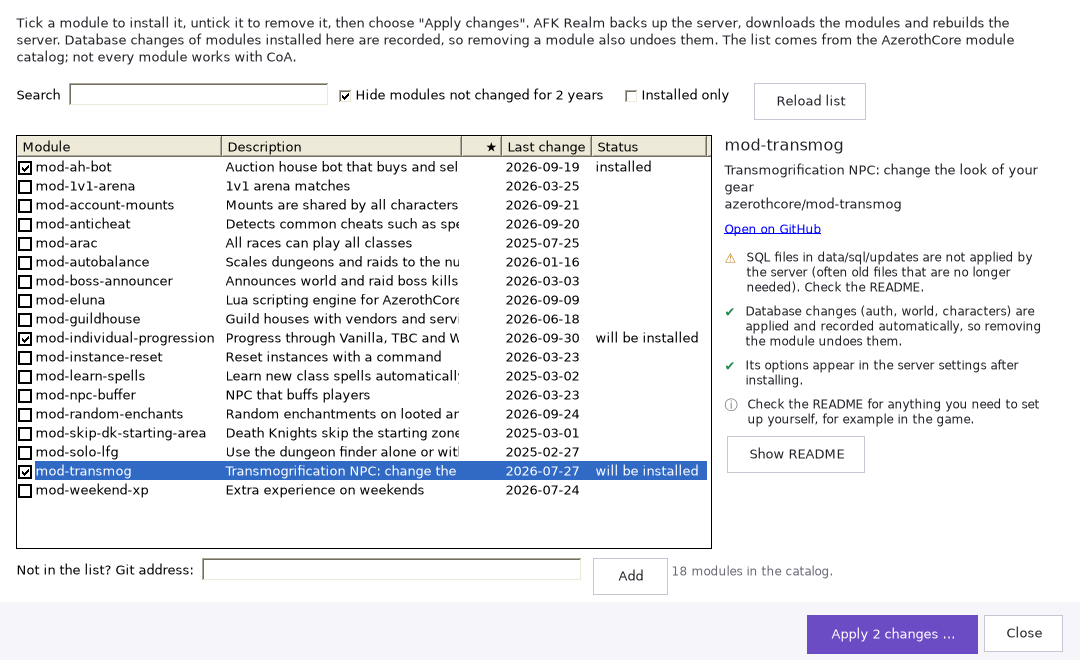
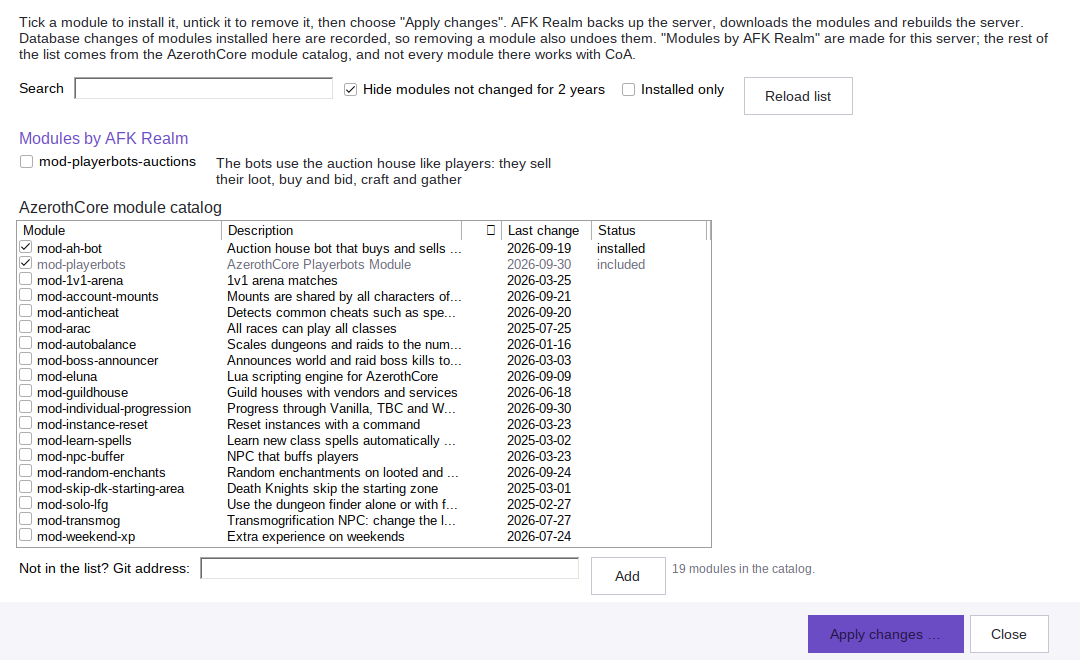
Modules by AFK Realm; modules can bring patches and settings (0.6.2-preview)

diff --git a/src/ModulesDialog.cs b/src/ModulesDialog.cs
@@ -33,6 +33,10 @@ namespace CoAInstaller
         readonly Button apply = Ui.Primary("Apply changes …");
         readonly TextBox customUrl = new TextBox { Font = Ui.Base, Width = 380, Margin = new Padding(0, 3, 8, 3) };
 
+        // The modules made for AFK Realm stand above the catalog, in a section of their own.
+        readonly FlowLayoutPanel ownPanel = new FlowLayoutPanel { FlowDirection = FlowDirection.TopDown, WrapContents = false, AutoSize = true, Dock = DockStyle.Top, Padding = new Padding(0, 0, 0, 2) };
+        readonly Dictionary<ModuleEntry, Label> ownStatus = new Dictionary<ModuleEntry, Label>();
+        ModuleEntry ownSelected;
         List<ModuleEntry> all = new List<ModuleEntry>();
         readonly HashSet<ModuleEntry> ticked = new HashSet<ModuleEntry>();
         bool filling;
@@ -46,7 +50,7 @@ namespace CoAInstaller
             var top = Ui.Column(); top.Dock = DockStyle.Top; top.AutoSize = true; top.Padding = new Padding(16, 12, 16, 4);
             top.Controls.Add(Ui.Para("Tick a module to install it, untick it to remove it, then choose \"Apply changes\". " + Product.Name +
                 " backs up the server, downloads the modules and rebuilds the server. Database changes of modules installed here are recorded, " +
-                "so removing a module also undoes them. The list comes from the AzerothCore module catalog; not every module works with CoA.", 1040));
+                "so removing a module also undoes them. \"Modules by " + Product.Name + "\" are made for this server; the rest of the list comes from the AzerothCore module catalog, and not every module there works with CoA.", 1040));
             var filter = Ui.Row();
             filter.Controls.Add(new Label { Text = "Search", AutoSize = true, Font = Ui.Base, Margin = new Padding(0, 6, 6, 0) });
             filter.Controls.Add(search); filter.Controls.Add(hideOld); filter.Controls.Add(onlyInstalled);
@@ -61,6 +65,7 @@ namespace CoAInstaller
             list.Columns.Add("Status", 115);
             var listPanel = new Panel { Dock = DockStyle.Fill, Padding = new Padding(16, 4, 8, 4) };
             listPanel.Controls.Add(list);
+            listPanel.Controls.Add(ownPanel);
 
             var details = Ui.Column(); details.Padding = new Padding(4, 4, 8, 4);
             details.Controls.Add(detailName); details.Controls.Add(detailText); details.Controls.Add(detailLink);
@@ -90,7 +95,7 @@ namespace CoAInstaller
             hideOld.CheckedChanged += (s, e) => Fill();
             onlyInstalled.CheckedChanged += (s, e) => Fill();
             list.ItemCheck += OnItemCheck;
-            list.SelectedIndexChanged += (s, e) => ShowDetails();
+            list.SelectedIndexChanged += (s, e) => { if (list.SelectedItems.Count > 0) SelectOwn(null); ShowDetails(); };
             detailLink.LinkClicked += (s, e) => { var m = Selected; if (m != null && m.Url.StartsWith("http")) Process.Start(m.Url); };
             readme.Click += (s, e) => ShowReadme();
             apply.Click += (s, e) => Apply();
@@ -98,7 +103,58 @@ namespace CoAInstaller
             Shown += (s, e) => LoadList(false);
         }
 
-        ModuleEntry Selected { get { return list.SelectedItems.Count == 1 ? list.SelectedItems[0].Tag as ModuleEntry : null; } }
+        ModuleEntry Selected { get { return ownSelected ?? (list.SelectedItems.Count == 1 ? list.SelectedItems[0].Tag as ModuleEntry : null); } }
+
+        /// <summary>Marks one of the modules by AFK Realm as the one the details are shown for (null: none).</summary>
+        void SelectOwn(ModuleEntry m)
+        {
+            ownSelected = m;
+            foreach (Control row in ownPanel.Controls) if (row.Tag is ModuleEntry) row.BackColor = row.Tag == m ? Ui.Panel : Color.White;
+        }
+
+        /// <summary>The section "Modules by AFK Realm": one row per module, with a tick like the list below.</summary>
+        void FillOwn()
+        {
+            ownPanel.SuspendLayout();
+            ownPanel.Controls.Clear(); ownStatus.Clear();
+            var mine = all.Where(m => m.Own).OrderBy(m => m.Name).ToList();
+            if (ownSelected != null && !mine.Contains(ownSelected)) ownSelected = null;
+            if (mine.Count > 0)
+            {
+                ownPanel.Controls.Add(new Label { Text = "Modules by " + Product.Name, AutoSize = true, Font = Ui.H2, ForeColor = Ui.Accent, Margin = new Padding(0, 0, 0, 2) });
+                foreach (var m in mine)
+                {
+                    var entry = m;
+                    var row = new FlowLayoutPanel { FlowDirection = FlowDirection.LeftToRight, WrapContents = false, AutoSize = true, Tag = entry, Margin = new Padding(0, 0, 0, 2), Padding = new Padding(2, 2, 6, 2),
+                        BackColor = entry == ownSelected ? Ui.Panel : Color.White };
+                    var tick = new CheckBox { Text = entry.Name, AutoSize = true, Font = Ui.Bold, Checked = ticked.Contains(entry), Enabled = entry.State != ModuleState.PartOfCoA, Margin = new Padding(2, 1, 10, 0) };
+                    var text = new Label { Text = entry.Description, AutoSize = true, Font = Ui.Base, ForeColor = Ui.Text, Margin = new Padding(0, 4, 10, 0), MaximumSize = new Size(360, 0) };
+                    var state = new Label { Text = StatusText(entry), AutoSize = true, Font = Ui.Small, ForeColor = Ui.Muted, Margin = new Padding(0, 5, 0, 0) };
+                    ownStatus[entry] = state;
+                    tick.CheckedChanged += (s, e) =>
+                    {
+                        if (filling) return;
+                        if (tick.Checked) ticked.Add(entry); else ticked.Remove(entry);
+                        state.Text = StatusText(entry);
+                        Pick(entry);
+                        UpdateApply();
+                    };
+                    EventHandler pick = (s, e) => Pick(entry);
+                    row.Click += pick; text.Click += pick; state.Click += pick;
+                    row.Controls.Add(tick); row.Controls.Add(text); row.Controls.Add(state);
+                    ownPanel.Controls.Add(row);
+                }
+                ownPanel.Controls.Add(new Label { Text = "AzerothCore module catalog", AutoSize = true, Font = Ui.H2, ForeColor = Ui.Text, Margin = new Padding(0, 8, 0, 2) });
+            }
+            ownPanel.ResumeLayout();
+        }
+
+        void Pick(ModuleEntry m)
+        {
+            list.SelectedItems.Clear();
+            SelectOwn(m);
+            ShowDetails();
+        }
 
         void LoadList(bool refresh)
         {
@@ -129,10 +185,11 @@ namespace CoAInstaller
         void Fill()
         {
             filling = true;
+            FillOwn();
             list.BeginUpdate();
             list.Items.Clear();
             string q = search.Text.Trim();
-            var shown = all.Where(m =>
+            var shown = all.Where(m => !m.Own &&
                     (!hideOld.Checked || m.Installed || ticked.Contains(m) || m.Pushed == DateTime.MinValue || m.Pushed > DateTime.UtcNow.AddYears(-2)) &&
                     (!onlyInstalled.Checked || m.Installed) &&
                     (q.Length == 0 || m.Name.IndexOf(q, StringComparison.OrdinalIgnoreCase) >= 0 || m.Description.IndexOf(q, StringComparison.OrdinalIgnoreCase) >= 0 ||
@@ -214,6 +271,7 @@ namespace CoAInstaller
                 return;
             }
             if (m.State == ModuleState.PartOfCoA) { AddCheck(0, "This module is already part of the CoA core."); return; }
+            if (m.Own) AddCheck(0, "Made for " + Product.Name + " and the CoA server it builds.");
             if (m.State == ModuleState.Managed)
             {
                 AddCheck(0, "Installed through " + Product.Name + (m.InstalledOn.Length > 0 ? " on " + m.InstalledOn : "") + ". Removing it undoes its recorded database changes.");
@@ -236,7 +294,8 @@ namespace CoAInstaller
                     {
                         if (Selected != m) return;
                         checks.Controls.Clear();
-                        if (error != null) { AddCheck(1, "The module could not be checked: " + error); return; }
+                        if (m.Own) AddCheck(0, "Made for " + Product.Name + " and the CoA server it builds.");
+                        if (error != null) { AddCheck(m.Own ? -1 : 1, "The module could not be checked" + (m.Own ? " online right now" : "") + ": " + error); return; }
                         foreach (var c in a.Checks.OrderByDescending(c => c.Key)) AddCheck(c.Key, c.Value);
                         AddCheck(-1, "Check the README for anything you need to set up yourself, for example in the game.");
                         readme.Visible = a.ReadmeText.Length > 0;
@@ -286,6 +345,7 @@ namespace CoAInstaller
             customUrl.Text = "";
             search.Text = known.Name;
             Fill();
+            if (known.Own) { if (!known.Installed && known.State != ModuleState.PartOfCoA) ticked.Add(known); search.Text = ""; Fill(); Pick(known); return; }
             foreach (ListViewItem it in list.Items) if (it.Tag == known) { it.Selected = true; if (!known.Installed) it.Checked = true; it.EnsureVisible(); }
         }
 

diff --git a/src/ModuleCatalog.cs b/src/ModuleCatalog.cs
@@ -19,6 +19,8 @@ namespace CoAInstaller
         public int Stars;
         public DateTime Pushed;
         public bool Archived, InCatalog;
+        /// <summary>Made for AFK Realm: listed first, in a section of its own.</summary>
+        public bool Own;
         public ModuleState State;
         public string Status = "", InstalledOn = "";                      // from modules.txt
         public string[] CreatedTables = new string[0], ManualTables = new string[0];
@@ -45,6 +47,19 @@ namespace CoAInstaller
     static class ModuleCatalog
     {
         const string Topic = "azerothcore-module";
+        /// <summary>A module can bring changes for the core or Playerbots; this file in its folder names them (see the engine).</summary>
+        public const string ManifestName = "afk-realm.json";
+
+        /// <summary>Modules made for AFK Realm. They are always in the list, whatever the catalog says.</summary>
+        static ModuleEntry[] OwnModules()
+        {
+            return new[]
+            {
+                new ModuleEntry { Name = "mod-playerbots-auctions", FullName = "aspollon/mod-playerbots-auctions", Branch = "main", Own = true,
+                    Url = "https://github.com/aspollon/mod-playerbots-auctions", CloneUrl = "https://github.com/aspollon/mod-playerbots-auctions.git",
+                    Description = "The bots use the auction house like players: they sell their loot, buy and bid, craft and gather" },
+            };
+        }
         static readonly Dictionary<string, ModuleAnalysis> analyses = new Dictionary<string, ModuleAnalysis>(StringComparer.OrdinalIgnoreCase);
 
         static string CacheFile(Install inst) { return Path.Combine(inst.Root, "Dependencies", "Cache", "module-catalog.txt"); }
@@ -187,6 +202,12 @@ namespace CoAInstaller
         public static List<ModuleEntry> Merge(Install inst, List<ModuleEntry> catalog)
         {
             var result = new List<ModuleEntry>(catalog ?? new List<ModuleEntry>());
+            foreach (var own in OwnModules())
+            {
+                var listed = result.FirstOrDefault(e => e.FullName.Equals(own.FullName, StringComparison.OrdinalIgnoreCase));
+                if (listed != null) { listed.Own = true; if (listed.Description.Length == 0) listed.Description = own.Description; }
+                else result.Insert(0, own);
+            }
             var managed = new Dictionary<string, string[]>(StringComparer.OrdinalIgnoreCase);
             string listFile = Path.Combine(inst.Root, "Dependencies", "modules.txt");
             if (File.Exists(listFile))
@@ -204,8 +225,11 @@ namespace CoAInstaller
                 string folder = Path.Combine(dir, name);
                 string[] info; managed.TryGetValue(name, out info);
                 bool hasGit = Directory.Exists(Path.Combine(folder, ".git"));
-                var state = info != null ? ModuleState.Managed : hasGit ? ModuleState.ByHand : ModuleState.PartOfCoA;
+                // A folder without its own Git history is normally a module that ships with the core - unless it is one of ours, copied in by hand.
+                bool own = OwnModules().Any(o => o.Name.Equals(name, StringComparison.OrdinalIgnoreCase));
+                var state = info != null ? ModuleState.Managed : hasGit || own ? ModuleState.ByHand : ModuleState.PartOfCoA;
                 string url = info != null ? info[1] : OriginUrl(folder);
+                if (url.Length == 0 && own) url = OwnModules().First(o => o.Name.Equals(name, StringComparison.OrdinalIgnoreCase)).CloneUrl;
                 string full = GitHubName(url);
                 // Prefer the catalog entry of the same repository, else one with the same name.
                 var entry = result.FirstOrDefault(e => full != null && e.FullName.Equals(full, StringComparison.OrdinalIgnoreCase))
@@ -304,7 +328,11 @@ namespace CoAInstaller
 
             if (!code && dbs.Count == 0)
                 a.Add(2, "This does not look like a server module (no source code and no SQL files).");
-            if (patches.Count > 0 || Regex.IsMatch(readme, @"git\s+apply|patch\s+-p\d|apply\s+(the\s+)?(core\s+)?patch|core\s+patch", RegexOptions.IgnoreCase))
+            bool manifest = paths.Any(p => p.Equals(ManifestName, StringComparison.OrdinalIgnoreCase));
+            if (manifest && patches.Count > 0)
+                a.Add(0, "It brings " + patches.Count + (patches.Count == 1 ? " change" : " changes") + " for the CoA core or Playerbots. " + Product.Name +
+                    " applies them with every build and leaves one out when it no longer fits or is no longer needed.");
+            else if (patches.Count > 0 || Regex.IsMatch(readme, @"git\s+apply|patch\s+-p\d|apply\s+(the\s+)?(core\s+)?patch|core\s+patch", RegexOptions.IgnoreCase))
                 a.Add(2, "It needs changes to the server core (a patch). " + Product.Name + " cannot apply those, so the module will most likely not work or not compile.");
             if (Regex.IsMatch(readme, @"\.mpq\b|client[\s-]+(side\s+)?patch|patch-[a-z0-9]\.mpq|client\s+dbc|dbc\s+files?\s+(to|for|in)\s+(the\s+)?client", RegexOptions.IgnoreCase))
                 a.Add(1, "The README mentions files for the game client (MPQ/DBC patches). Every player may need them; see the README.");

diff --git a/src/Core.cs b/src/Core.cs
@@ -23,7 +23,7 @@ namespace CoAInstaller
         public const string Name = "AFK Realm";                   // window titles, dialogs
         public const string ShortName = "AFK Realm";              // desktop shortcut, firewall rules
         public const string FileStem = "AFK-Realm";                // exe name, settings folder
-        public const string Version = "0.6.1-preview";            // pre-release until testers confirm it works
+        public const string Version = "0.6.2-preview";            // pre-release until testers confirm it works
         public const string Tagline = "build, run and tweak your own server the lazy way";
         public const string BuildsFor = "Conquest of AzerothCore";
         public const string WindowTitle = Name + " (preview)";

diff --git a/src/ManagerPage.cs b/src/ManagerPage.cs
@@ -131,7 +131,7 @@ namespace CoAInstaller
 
             // --- modules
             Body.Controls.Add(Ui.Heading("Modules"));
-            Body.Controls.Add(Ui.Hint("Add or remove AzerothCore modules from the module catalog. The server is backed up and rebuilt; " +
+            Body.Controls.Add(Ui.Hint("Add or remove modules: those made for this server (for example bots that use the auction house) and the AzerothCore module catalog. The server is backed up and rebuilt; " +
                 "database changes of modules installed here are recorded, so removing a module undoes them."));
             var modulesBtn = Ui.Secondary("Manage modules …");
             modulesBtn.Click += (s, e) => ManageModules();

diff --git a/README.md b/README.md
@@ -35,7 +35,7 @@ Pre-built repacks go stale quickly. Building from source keeps you on the latest
 - **Accounts**: create accounts with GM levels, list all player accounts (bot accounts are filtered out) with their characters, delete accounts, set new passwords and change access levels
 - **Account transfer**: export an account with all its characters, items, mail and pets to an `.afkaccount` file and import it on another server – ids are renumbered, taken names are renamed at the next login
 - **Game master tools**: a line to the running server (its SOAP service, switched on for this PC only) with a quest helper – find quests by NPC name, quest title or id, or list the open quests around a character, then give, complete, reward or remove them with one click – plus unstuck, revive, level, rename, gold and mail for a character, announcements, and a console for every other GM command
-- **Modules**: browse the AzerothCore module catalog, tick modules to install them and untick them to remove them. Before installing, each module is checked (database changes, settings, core patches, client files, age) and its README is one click away. The server is backed up and rebuilt; if a module does not compile, it is taken out again and the server stays as it was. The database changes of every module installed this way are recorded, so removing it undoes them
+- **Modules**: modules made for this server at the top ("Modules by AFK Realm", first of them: the bots use the auction house like players), then the AzerothCore module catalog: browse it, tick modules to install them and untick them to remove them. Before installing, each module is checked (database changes, settings, core patches, client files, age) and its README is one click away. The server is backed up and rebuilt; if a module does not compile, it is taken out again and the server stays as it was. The database changes of every module installed this way are recorded, so removing it undoes them
 - **Bot reset**: one click deletes all random bots with their characters, guilds and arena teams (your own characters are kept); new bots are created at the next start
 - **Map data**: extracts maps, vmaps, mmaps and the CoA client DBC tables from your game client with one click
 - **Server name**: choose the name shown in the realm list during installation and change it later with one click
@@ -103,6 +103,19 @@ When the server is started through AFK Realm, the worldserver's SOAP service is 
 ### Modules and their database changes
 
 Modules installed through *Manage modules* are cloned into `Dependencies\Source\modules`. Their SQL files (`data/sql/db-world`, `db-characters`, `db-auth`) are not left to the core's updater: AFK Realm applies them itself, copies the tables they name beforehand and stores the differences (added, changed and removed rows, new and deleted tables) in the database `afk_modules`, which is part of every backup. The files are then entered into the core's `updates` tables with the core's own hash, so they are never applied twice. Removing the module puts every recorded row and table back, but only rows that still look exactly as the module left them; rows changed later (for example by a server update) are kept and listed in the log. Changes that cannot be recorded (a module that alters the structure of an existing table, or changes tables in other ways) are reported; a backup from before the module restores them. Data players created through a module (items in bags, learned spells) is not tracked.
+
+### What a module can bring along
+
+A module can carry a file `afk-realm.json` in its folder. It names patches for the CoA core or for Playerbots – the two source trees AFK Realm downloads itself and resets with every update – and settings the module needs in other config files:
+
+```json
+{
+  "patches":  [ { "name": "Bots keep their bags", "target": "mod-playerbots", "file": "patches/mod-playerbots/keep-bags-on-refresh.patch", "why": "..." } ],
+  "settings": [ { "file": "playerbots.conf", "key": "AiPlayerbot.LootDistance", "value": "40.0", "why": "..." } ]
+}
+```
+
+Before every build both trees are reset and the patches of all installed modules are applied with `git apply`. A patch that no longer fits is left out and reported, one whose change is already in the source is skipped silently; the build goes on either way. Settings are written once, when the module is new, together with the value that was there before (`Dependencies\module-settings.txt`); when the module is removed, a value that is still the module's goes back. `target` is `core` or `mod-playerbots`, nothing else.
 
 Folder layout after installation:
 

diff --git a/docs/MANUAL.md b/docs/MANUAL.md
@@ -205,11 +205,14 @@ The arrow keys bring back earlier commands. Commands that need you to stand in t
 
 ![Modules](screenshots/12-modules.png)
 
-- The list is the AzerothCore module catalog. Installed modules are ticked.
+- At the top, under **Modules by AFK Realm**, are modules made for this server. They fit CoA and bring everything they need.
+- Below that, the list is the AzerothCore module catalog. Installed modules are ticked.
 - **Tick** a module to install it, **untick** it to remove it, then click **Apply changes**.
 - Click a module to see what AFK Realm found out about it: whether it brings database changes and settings, whether it needs a change to the server core (not supported), files for the game client or the Eluna module, and when it was last changed. **Show README** opens its description.
 - A module that is not in the list can be added by its Git address at the bottom.
 - Playerbots and the modules that come with CoA are shown as *included* / *part of CoA* and cannot be changed here.
+
+**Modules by AFK Realm.** *mod-playerbots-auctions* lets the bots use the auction house like players: they travel to a city when they have enough to sell, put their loot up at prices of their own, buy and bid on what they need, gather and craft with their professions and sell junk to vendors. It needs two small changes to Playerbots and one setting; AFK Realm makes them when it builds the server and takes them back when you remove the module. A module's file `afk-realm.json` lists what it brings; a change that no longer fits a newer Playerbots version is left out and reported, and the server is built without it. The module's own options are in the [server settings](#5-server-settings) under `mod_playerbots_auctions.conf`.
 
 **What happens on Apply:** the server is stopped and backed up, the modules are downloaded, the server is rebuilt and the modules' database changes are applied.
 

diff --git a/RELEASE_NOTES.md b/RELEASE_NOTES.md
@@ -1,6 +1,12 @@
-# AFK Realm 0.6.1 – preview
+# AFK Realm 0.6.2 – preview
 
 Build, run and tweak your own Conquest of Azeroth server (AzerothCore fork with Playerbots) on Windows 10/11.
+
+## New in 0.6.2
+
+- **Modules by AFK Realm**: the module manager now starts with a section of modules made for this server. The first one is **mod-playerbots-auctions**: the bots use the auction house like players. They travel to a city when they have enough to sell, price their loot, buy and bid on what they need, gather and craft with their professions, and sell their junk to vendors. Tick it, apply, done.
+- **Modules can bring what they need.** Until now a module that needed a change in the core or in Playerbots could not be installed through AFK Realm. A module can now carry those changes itself: AFK Realm applies them to the freshly downloaded source with every build, leaves a change out when it no longer fits or when the original has it already, and takes everything back when the module is removed. The auction module uses this for two small changes to Playerbots (bots keep what is in their bags; no crash on level-scaled loot) and one setting.
+- This is new and was tested on one server only. As always: AFK Realm backs up the server before it changes anything.
 
 ## New in 0.6.1
 

diff --git a/CHANGELOG.md b/CHANGELOG.md
@@ -1,5 +1,11 @@
 # Changelog
 
+## 0.6.2-preview
+
+- Module manager: new section "Modules by AFK Realm" at the top of the list, with modules made for this server
+- First module of that kind: mod-playerbots-auctions – the bots use the auction house like players (sell, buy, bid, craft, gather)
+- Modules can bring changes for the CoA core or Playerbots and settings for other config files (file afk-realm.json in the module). AFK Realm applies the patches to the fresh source with every build, leaves one out when it no longer fits or is no longer needed, and takes patches and settings back when the module is removed
+
 ## 0.6.1-preview
 
 - Game master tools: "Change name" lets the player choose a new character name at the next login
